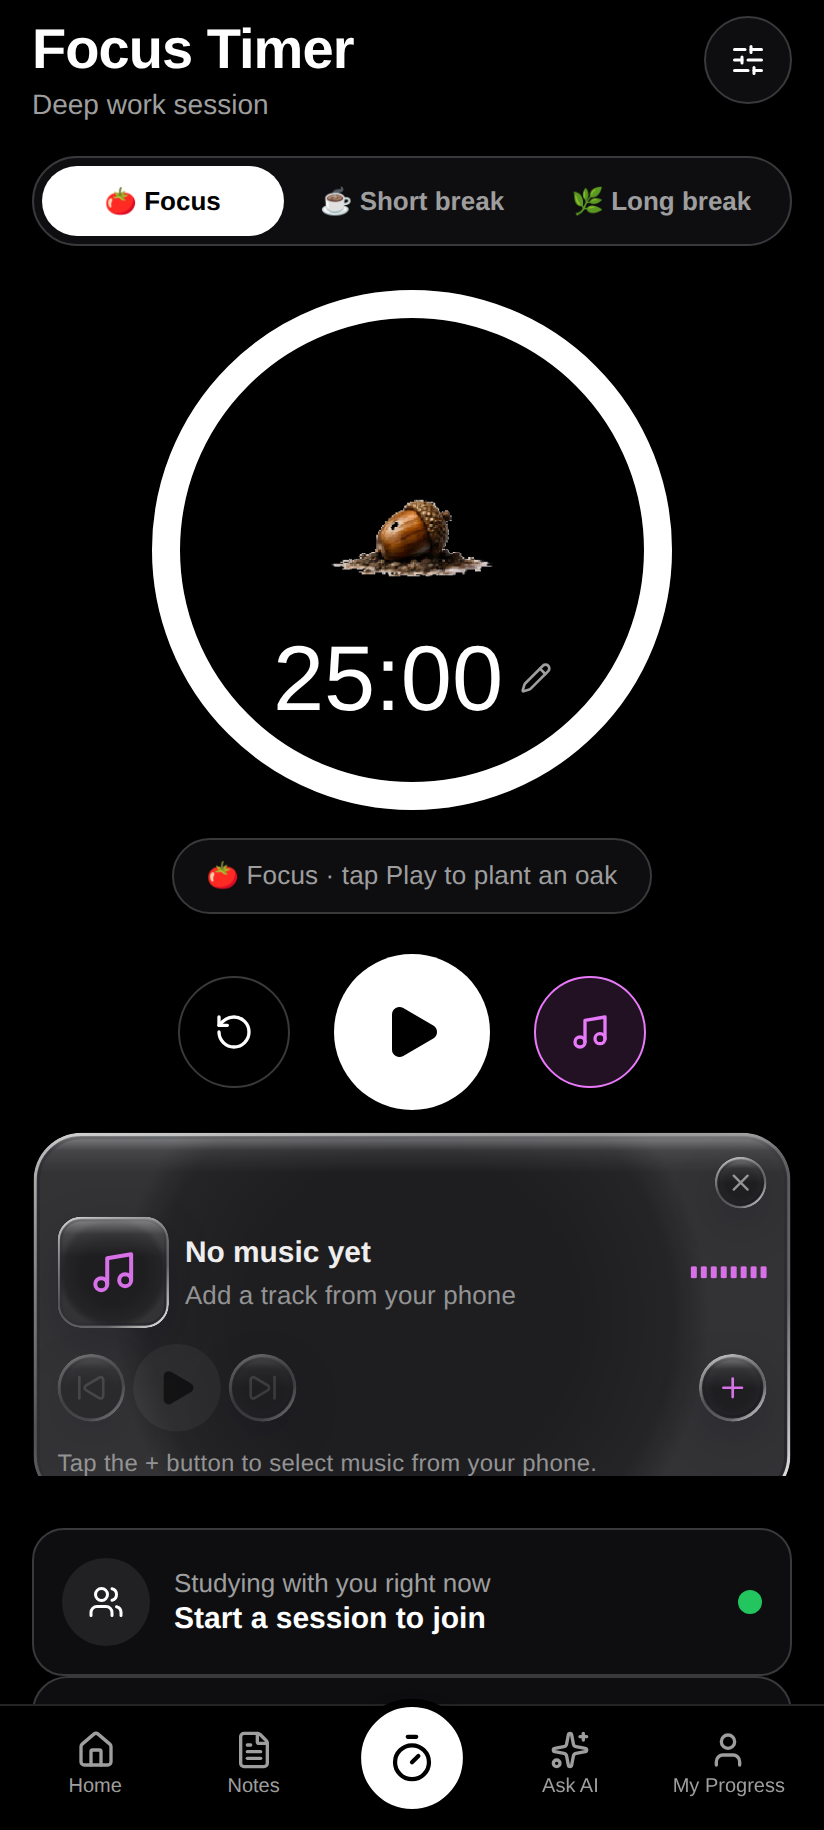
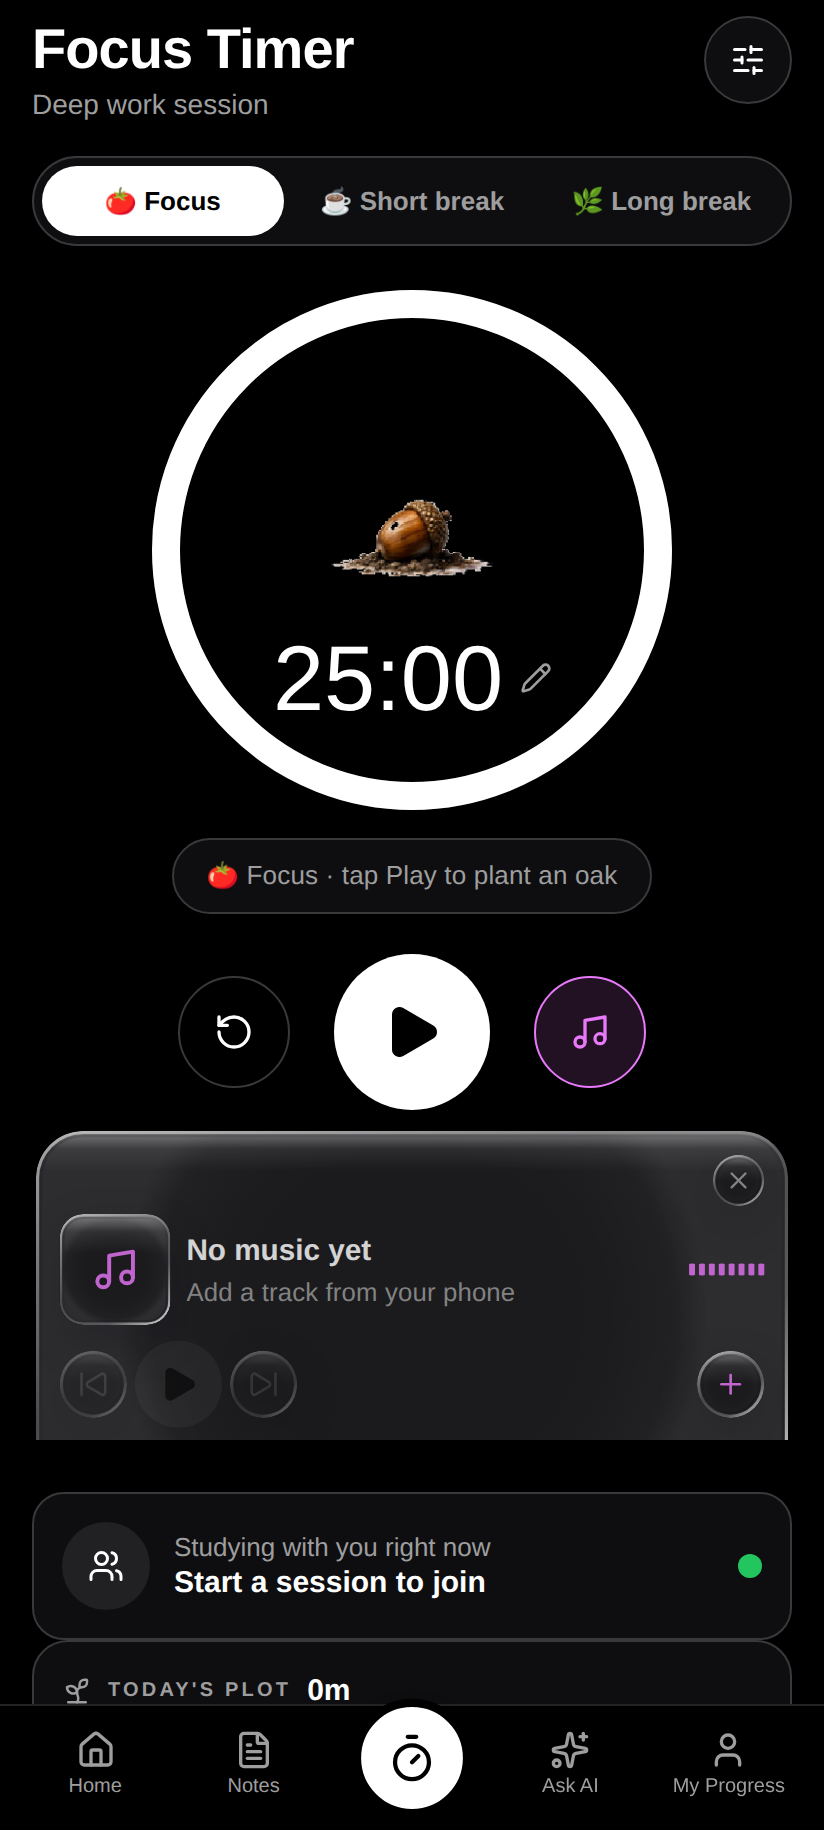
fix(theme): the glass was refracting the screen, so every card ghosted itself
Reported with screenshots, and they are unambiguous: "Search Search", "Timer
Timer", the hero's paragraph showing through the quick actions, and the whole
Home screen sitting inside the Timer's music player. Two bugs, both mine, both
from removing the wallpaper gate one commit ago.

## The pane was refracting its own text

`findBackground` fell through to "the largest view that has a background". That
view is the React root, and the root draws the **entire UI** — so the captured
bitmap contained every card's own children, and each pane then drew a refracted
copy of its own label underneath the real one, a few pixels off. Hence the
doubling.

The reasoning that led there was wrong in a way worth writing down. I argued
that what sits behind a card is the page, so bending the page is the effect.
Content drawn *over* a pane cannot be behind it. What is genuinely behind a
card is the wallpaper, or a flat colour, and there is no third thing.

So the backdrop search now accepts only a full-page image or video — a
TextureView or an ImageView with a drawable, covering at least 90% of the root
— and returns null otherwise. The `bestPlain` fallback is gone. With no
wallpaper the shader stands down and the drawn bevel shows, which is the honest
answer to refracting a flat colour rather than a worse version of something
else. `GlassSurface` gates on a wallpaper again too, so a native view is not
mounted per card to discover there is nothing to do.

## The capture outlived its screen
[…]

diff --git a/mobile/android/app/src/main/java/com/aistudio/mbbsqbank/aycxvd/GlassView.kt b/mobile/android/app/src/main/java/com/aistudio/mbbsqbank/aycxvd/GlassView.kt
@@ -143,6 +143,19 @@ class GlassView(context: android.content.Context) : View(context) {
     super.onAttachedToWindow()
     if (supported()) {
       viewTreeObserver.addOnPreDrawListener(preDraw)
+      /*
+       * A new pane means a screen that was not on display when the last
+       * capture was taken, so that capture is not this screen's.
+       *
+       * Without this the bitmap outlived the screen it came from: opening the
+       * Timer showed the Home screen's quick actions and its WhatsApp banner
+       * inside the music player, because nothing had *moved* since, and the
+       * only other refresh trigger was movement.
+       */
+      localShader = null
+      attempts = 0
+      gaveUp = false
+      synchronized(lock) { lastCaptureAt = 0L }
     }
   }
 
@@ -179,7 +192,8 @@ class GlassView(context: android.content.Context) : View(context) {
     // still one only when something did. Either way the throttle decides
     // whether the request is actually honoured.
     val moving = synchronized(lock) { sharedView } is TextureView
-    if (moving || SystemClock.uptimeMillis() - lastOffsetChange < STILL_AFTER_MS) {
+    val settling = SystemClock.uptimeMillis() - lastOffsetChange < STILL_AFTER_MS
+    if (moving || settling) {
       if (refresh()) invalidate()
     }
   }
@@ -370,6 +384,15 @@ class GlassView(context: android.content.Context) : View(context) {
     private const val STILL_AFTER_MS = 400L
 
     /**
+     * How much of the page a view must cover to be the page.
+     *
+     * A wallpaper is drawn edge to edge behind everything; a card is not.
+     * Without a floor, the largest *card* on a screen would be taken for the
+     * backdrop as soon as the wallpaper went away.
+     */
+    private const val COVERAGE = 0.9f
+
+    /**
      * How many times to try before leaving it alone.
      *
      * Some backgrounds cannot be read at all — a SurfaceView, a
@@ -389,37 +412,58 @@ class GlassView(context: android.content.Context) : View(context) {
      * too, so size is what separates the page from the things on it.
      */
     private fun findBackground(root: View): View? {
+      /*
+       * A backdrop, or nothing at all.
+       *
+       * This used to fall back to "the biggest view that has a background",
+       * and that view is the React root — which draws the **entire UI**. Every
+       * pane then refracted a picture with its own text in it, so a card
+       * showed a ghost of itself a few pixels off: "Search Search", "Timer
+       * Timer", the hero's paragraph inside the quick actions, and the whole
+       * Home screen inside the Timer's music player.
+       *
+       * The mistake underneath it was treating "what is behind this pane" as
+       * "what is on the screen". Content that is drawn *over* a pane cannot be
+       * behind it, and in a flat theme there is nothing behind a card except a
+       * colour. So the only thing accepted here is a real background layer —
+       * the wallpaper, image or video — and it has to actually cover the page
+       * for that to be what it is.
+       *
+       * With no wallpaper this returns null, the shader stands down, and the
+       * drawn bevel is what shows. That is not a downgrade; it is the honest
+       * answer to "refract a flat colour".
+       */
+      val rootArea = root.width.toLong() * root.height.toLong()
+      if (rootArea <= 0L) return null
+      val floor = (rootArea * COVERAGE).toLong()
+
       var bestImage: View? = null
       var bestImageArea = 0L
       var bestTexture: View? = null
       var bestTextureArea = 0L
-      var bestPlain: View? = null
-      var bestPlainArea = 0L
       fun walk(view: View) {
         if (!view.isShown || view.width <= 0 || view.height <= 0 || view is GlassView) return
         val area = view.width.toLong() * view.height.toLong()
-        if (view is TextureView) {
-          // The video wallpaper. Preferred over everything else when present:
-          // it is the whole page, and it is the one thing that moves.
-          if (area > bestTextureArea) {
-            bestTextureArea = area
-            bestTexture = view
+        if (area >= floor) {
+          if (view is TextureView) {
+            // The video wallpaper, and the only moving backdrop there is.
+            if (area > bestTextureArea) {
+              bestTextureArea = area
+              bestTexture = view
+            }
+          } else if (view is ImageView && view.drawable != null) {
+            if (area > bestImageArea) {
+              bestImageArea = area
+              bestImage = view
+            }
           }
-        } else if (view is ImageView && view.drawable != null) {
-          if (area > bestImageArea) {
-            bestImageArea = area
-            bestImage = view
-          }
-        } else if (view.background != null && area > bestPlainArea) {
-          bestPlainArea = area
-          bestPlain = view
         }
         if (view is ViewGroup) {
           for (i in 0 until view.childCount) walk(view.getChildAt(i))
         }
       }
       walk(root)
-      return bestTexture ?: bestImage ?: bestPlain
+      return bestTexture ?: bestImage
     }
 
     /**

diff --git a/mobile/src/components/GlassSurface.tsx b/mobile/src/components/GlassSurface.tsx
@@ -112,26 +112,27 @@ export function GlassSurface({
   const [size, setSize] = useState({ width: 0, height: 0 });
 
   /*
-   * The AGSL pane, on Android 13 and up. Wallpaper or no wallpaper.
+   * The AGSL pane, on Android 13 and up, over a wallpaper.
    *
-   * It was gated on a wallpaper at first, on the grounds that refracting a
-   * flat colour returns a flat colour. That is true of the *theme colour* and
-   * false of the screen: what sits behind a card is the page — headings, other
-   * cards, a progress bar, the subject grid — and bending that is exactly what
-   * a pane of glass laid on a page does. The capture is the whole background
-   * either way, so there was never a case where it had nothing to work with.
+   * The wallpaper condition was removed once, on the argument that what sits
+   * behind a card is the page and bending the page is the effect. That
+   * argument is wrong, and the screenshots of it are unambiguous: content
+   * drawn *over* a pane cannot be behind it, so capturing the screen captured
+   * each card's own text and every card refracted a ghost of itself a few
+   * pixels off — "Search Search", "Timer Timer", the hero's paragraph inside
+   * the quick actions.
    *
-   * What the wallpaper condition was really protecting was *cost*, and that is
-   * answered properly now instead: the capture is a third of each dimension
-   * and shared by every pane, so it is about 1.2MB rather than 10, and the
-   * refresh is throttled to one for the whole screen at a time.
+   * What is genuinely behind a card is the wallpaper, or a flat colour. There
+   * is no third thing. So: with a picture, real refraction; without one, the
+   * drawn bevel, which is the honest answer to refracting a flat colour rather
+   * than a lesser version of something else.
    *
-   * A **video** wallpaper works too, which it did not before. `GlassView`
-   * prefers a TextureView over everything else when there is one, and
-   * `WallpaperBackground` now asks for a TextureView precisely so there is.
+   * `GlassView` refuses a backdrop that is not a full-page image or video as
+   * well. This gate is the cheap half of the same rule — it stops a native
+   * view being mounted per card to discover there is nothing to do.
    */
   const { wallpaper } = useWallpaper();
-  const shaded = GLASS_SHADER_AVAILABLE && lit;
+  const shaded = GLASS_SHADER_AVAILABLE && lit && wallpaper !== null;
 
   const onLayout = (event: LayoutChangeEvent) => {
     const { width, height } = event.nativeEvent.layout;

diff --git a/CLAUDE.md b/CLAUDE.md
@@ -611,12 +611,28 @@ Two gates:
 - **`hasViewManagerConfig`.** The sound module is the cautionary tale: a native
   thing that is silently absent looks exactly like one quietly doing nothing.
 
-There was a third — a wallpaper had to be set — and it was wrong. The argument
-was that refracting a flat colour returns a flat colour, which is true of the
-*theme colour* and false of the screen: what sits behind a card is the page,
-and bending that is what a pane of glass laid on a page does. What the gate was
-really protecting was cost, and cost is answered directly instead, by three
-things `check:glass-shader` pins:
+**And a wallpaper has to be set.** That gate was removed once, on the argument
+that what sits behind a card is the page and bending the page is the effect.
+It shipped, and the screenshots settled it: content drawn *over* a pane cannot
+be behind it, so capturing the screen captured each card's own children and
+every pane refracted a ghost of itself a few pixels off — "Search Search",
+"Timer Timer", the hero's paragraph inside the quick actions. `findBackground`
+had fallen through to "the largest view with a background", which is the React
+root, and the root draws the whole UI.
+
+What is genuinely behind a card is the wallpaper or a flat colour; there is no
+third thing. So the backdrop search now accepts **only a full-page image or
+video** — nothing else, and it must cover 90% of the root to count — and with
+no wallpaper the shader stands down to the bevel, which is the honest answer to
+refracting a flat colour rather than a lesser version of something else.
+
+**A new pane invalidates the shared capture.** The bitmap outlived the screen
+it came from: opening the Timer showed Home's quick actions and its WhatsApp
+banner inside the music player, because nothing had *moved* since and movement
+was the only other refresh trigger.
+
+Cost is what makes the capture affordable at all, and `check:glass-shader` pins
+three things for it:
 
 - **The capture is a third of each dimension** — a ninth of the pixels, about
   1.2MB instead of 10, and a draw that costs about a ninth as much. Nothing is

diff --git a/.agents/rules/20-interface.md b/.agents/rules/20-interface.md
@@ -56,8 +56,13 @@ custom-theme subject cards.
 - **Android 13+ gets a real AGSL shader** (`GlassView.kt`, registered as
   `OrbitGlass`), drawn **between the fill and the bevel**. That order is the
   safety story: an older phone, a video wallpaper, or a failed capture all
-  leave a finished card rather than a hole. Gated on API 33 and on
-  `hasViewManagerConfig`, and affordable because the capture is a third of
+  leave a finished card rather than a hole. Gated on API 33, on
+  `hasViewManagerConfig`, and on **a wallpaper being set** — the backdrop
+  search accepts only a full-page image or video, because content drawn *over*
+  a pane cannot be behind it and capturing the screen instead captures each
+  card's own text (it shipped once: "Search Search", "Timer Timer"). A new
+  pane invalidates the shared capture, or a screen inherits the last one's
+  picture. Affordable because the capture is a third of
   each dimension, shared, throttled to one per 90ms, and taken with every pane
   standing down so the glass is not inside the picture it refracts.
 - **A video wallpaper refracts too**, but only because `WallpaperBackground`
